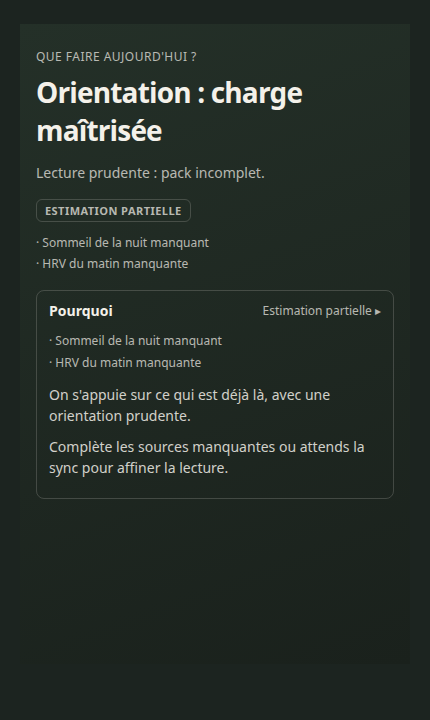
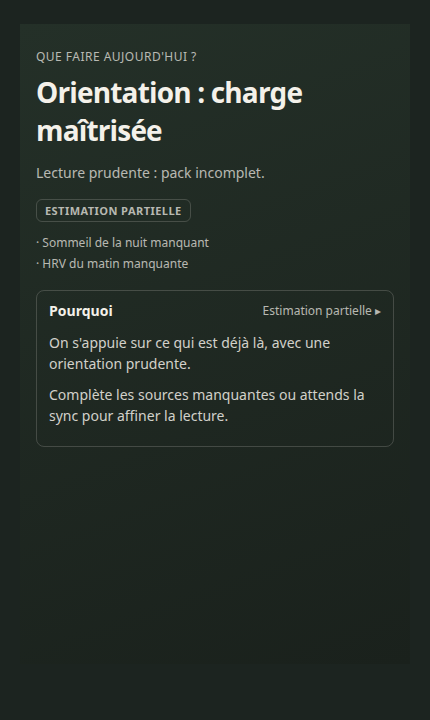
fix: dedupe soft-hero gaps and soften Pourquoi Recovery copy
Keep gap bullets on the hero strip only; athlete Pourquoi uses plain FR sentences without Recovery v1 jargon.

Changed region(s): [[0.0907, 0.4583, 0.8465, 0.6722]]

diff --git a/src/lib/presentation/today/pourquoi-athlete.ts b/src/lib/presentation/today/pourquoi-athlete.ts
@@ -7,14 +7,16 @@ export type PourquoiAthleteInput = {
   readonly softHero: boolean;
   readonly packTier: 'FULL' | 'PARTIAL' | 'LOW' | 'INSUFFICIENT';
   readonly visibleGaps: readonly string[];
-  readonly goalVsJournalWeight: string;
   readonly journalWeighted: boolean;
 };
 
 export type PourquoiAthleteCopy = {
   /** Collapsed summary — never a machine tier like FULL. */
   readonly summary: string | null;
-  /** Soft-hero: 1–2 short FR gap bullets. */
+  /**
+   * Soft-hero gap bullets for the hero strip (outside Pourquoi).
+   * Not repeated inside the Pourquoi body.
+   */
   readonly gapBullets: readonly string[];
   /** Default Pourquoi body: 2–3 readable athlete sentences. */
   readonly sentences: readonly string[];
@@ -27,6 +29,7 @@ function noEmDash(text: string): string {
 /**
  * Build the Essential (non-Expert) Pourquoi reading.
  * Technical provenance stays behind Mode Expert in the UI.
+ * Soft-hero gaps are listed once on the hero strip, not again inside Pourquoi.
  */
 export function buildPourquoiAthleteCopy(input: PourquoiAthleteInput): PourquoiAthleteCopy {
   const gapBullets = input.softHero ? input.visibleGaps.slice(0, 2).map(noEmDash) : [];
@@ -53,10 +56,14 @@ export function buildPourquoiAthleteCopy(input: PourquoiAthleteInput): PourquoiA
     noEmDash(
       'Le verdict s\'appuie sur ton sommeil, ta HRV et ta charge récente déjà synchronisés.',
     ),
-    noEmDash(input.goalVsJournalWeight),
     noEmDash(
       input.journalWeighted
-        ? 'Ton check-in matin compte déjà dans Recovery : humeur, énergie, corps et stress.'
+        ? 'Ton objectif reste prioritaire ; le journal wellness compte déjà dans Recovery.'
+        : 'Ton objectif reste prioritaire ; le journal wellness n\'est pas encore saisi.',
+    ),
+    noEmDash(
+      input.journalWeighted
+        ? 'Ton check-in matin compte déjà : humeur, énergie, corps et stress.'
         : 'Un check-in matin aidera Recovery à mieux pondérer la journée.',
     ),
   ];

diff --git a/src/components/today/rich/today-reliability-panel.tsx b/src/components/today/rich/today-reliability-panel.tsx
@@ -30,22 +30,9 @@ function VisibleGaps({ gaps }: { gaps: readonly string[] }) {
   );
 }
 
-function AthletePourquoiBody({
-  sentences,
-  gapBullets,
-}: {
-  sentences: readonly string[];
-  gapBullets: readonly string[];
-}) {
+function AthletePourquoiBody({ sentences }: { sentences: readonly string[] }) {
   return (
     <div className="text-ink-surface-foreground/80 space-y-3 text-sm leading-relaxed">
-      {gapBullets.length > 0 ? (
-        <ul className="space-y-1 text-xs leading-snug">
-          {gapBullets.map((gap) => (
-            <li key={gap}>· {gap}</li>
-          ))}
-        </ul>
-      ) : null}
       {sentences.map((sentence) => (
         <p key={sentence}>{sentence}</p>
       ))}
@@ -101,7 +88,6 @@ export function TodayReliabilityPanel({
     softHero: reliability.softHero,
     packTier: reliability.packTier,
     visibleGaps: reliability.visibleGaps,
-    goalVsJournalWeight: reliability.provenance.goalVsJournalWeight,
     journalWeighted,
   });
 
@@ -110,7 +96,7 @@ export function TodayReliabilityPanel({
       {reliability.estimationChip ? (
         <EstimationChip label={reliability.estimationChip} />
       ) : null}
-      {reliability.softHero ? <VisibleGaps gaps={reliability.visibleGaps} /> : null}
+      {reliability.softHero ? <VisibleGaps gaps={athlete.gapBullets} /> : null}
       {reliability.ctaCompleteSources ? (
         <div className="mt-4 flex flex-wrap gap-2">
           <LinkButton href="/settings/integrations" size="sm" variant="secondary">
@@ -135,7 +121,7 @@ export function TodayReliabilityPanel({
           summary={athlete.summary}
           defaultOpen={false}
         >
-          <AthletePourquoiBody gapBullets={athlete.gapBullets} sentences={athlete.sentences} />
+          <AthletePourquoiBody sentences={athlete.sentences} />
           <ExpertOnly>
             <ExpertProvenanceBody provenance={reliability.provenance} />
           </ExpertOnly>

diff --git a/src/lib/presentation/today/pourquoi-athlete.test.ts b/src/lib/presentation/today/pourquoi-athlete.test.ts
@@ -7,7 +7,6 @@ describe('buildPourquoiAthleteCopy', () => {
       softHero: false,
       packTier: 'FULL',
       visibleGaps: [],
-      goalVsJournalWeight: 'Objectif prioritaire · Journal wellness pondéré en Recovery v1',
       journalWeighted: true,
     });
 
@@ -15,6 +14,7 @@ describe('buildPourquoiAthleteCopy', () => {
     expect(copy.gapBullets).toEqual([]);
     expect(copy.sentences).toHaveLength(3);
     expect(copy.sentences.join(' ')).not.toMatch(/\bFULL\b/);
+    expect(copy.sentences.join(' ')).not.toMatch(/Recovery v1/);
     expect(copy.sentences.join(' ')).not.toMatch(/Âge\s*:/);
     expect(copy.sentences.join(' ')).not.toMatch(/[—–]/);
     expect(copy.sentences[0]).toMatch(/sommeil/i);
@@ -29,7 +29,6 @@ describe('buildPourquoiAthleteCopy', () => {
         'HRV du matin manquante',
         'Baseline HRV trop courte (moins de 7 j)',
       ],
-      goalVsJournalWeight: 'Objectif prioritaire · journal wellness non encore saisi',
       journalWeighted: false,
     });
 
@@ -44,7 +43,6 @@ describe('buildPourquoiAthleteCopy', () => {
       softHero: true,
       packTier: 'INSUFFICIENT',
       visibleGaps: ['Sommeil de la nuit manquant'],
-      goalVsJournalWeight: 'Objectif prioritaire · journal wellness non encore saisi',
       journalWeighted: false,
     });
 
